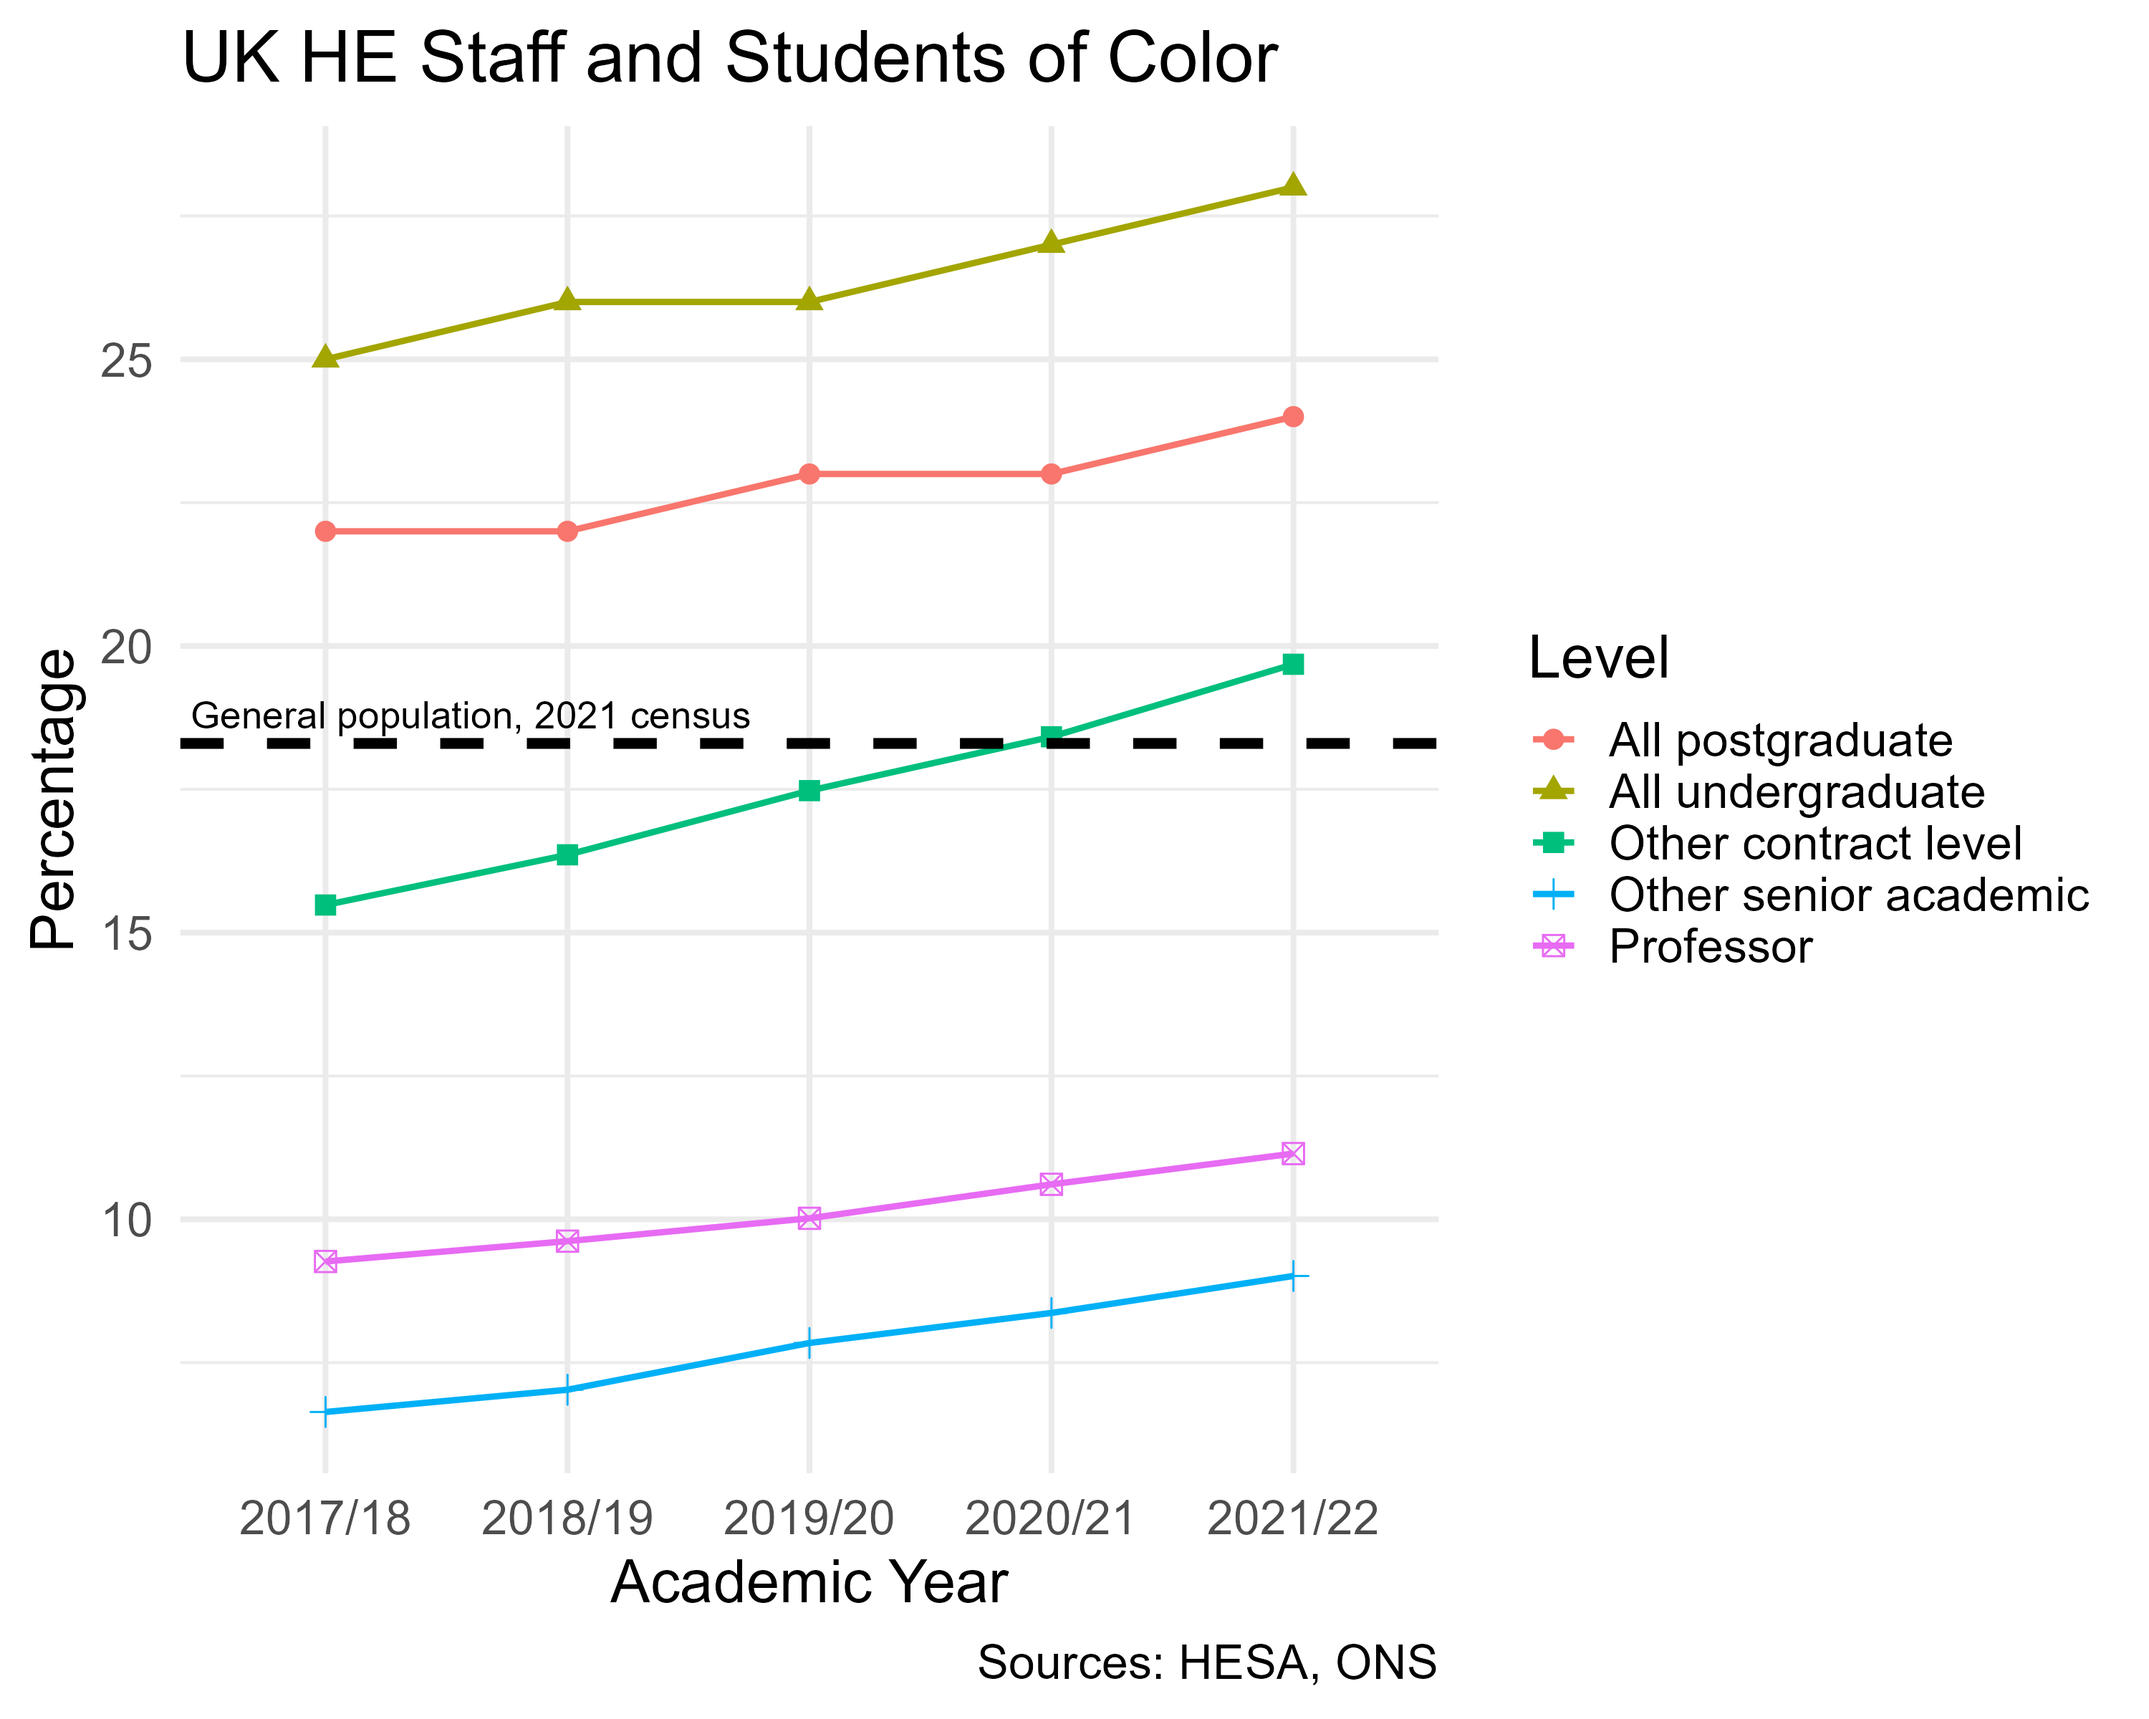
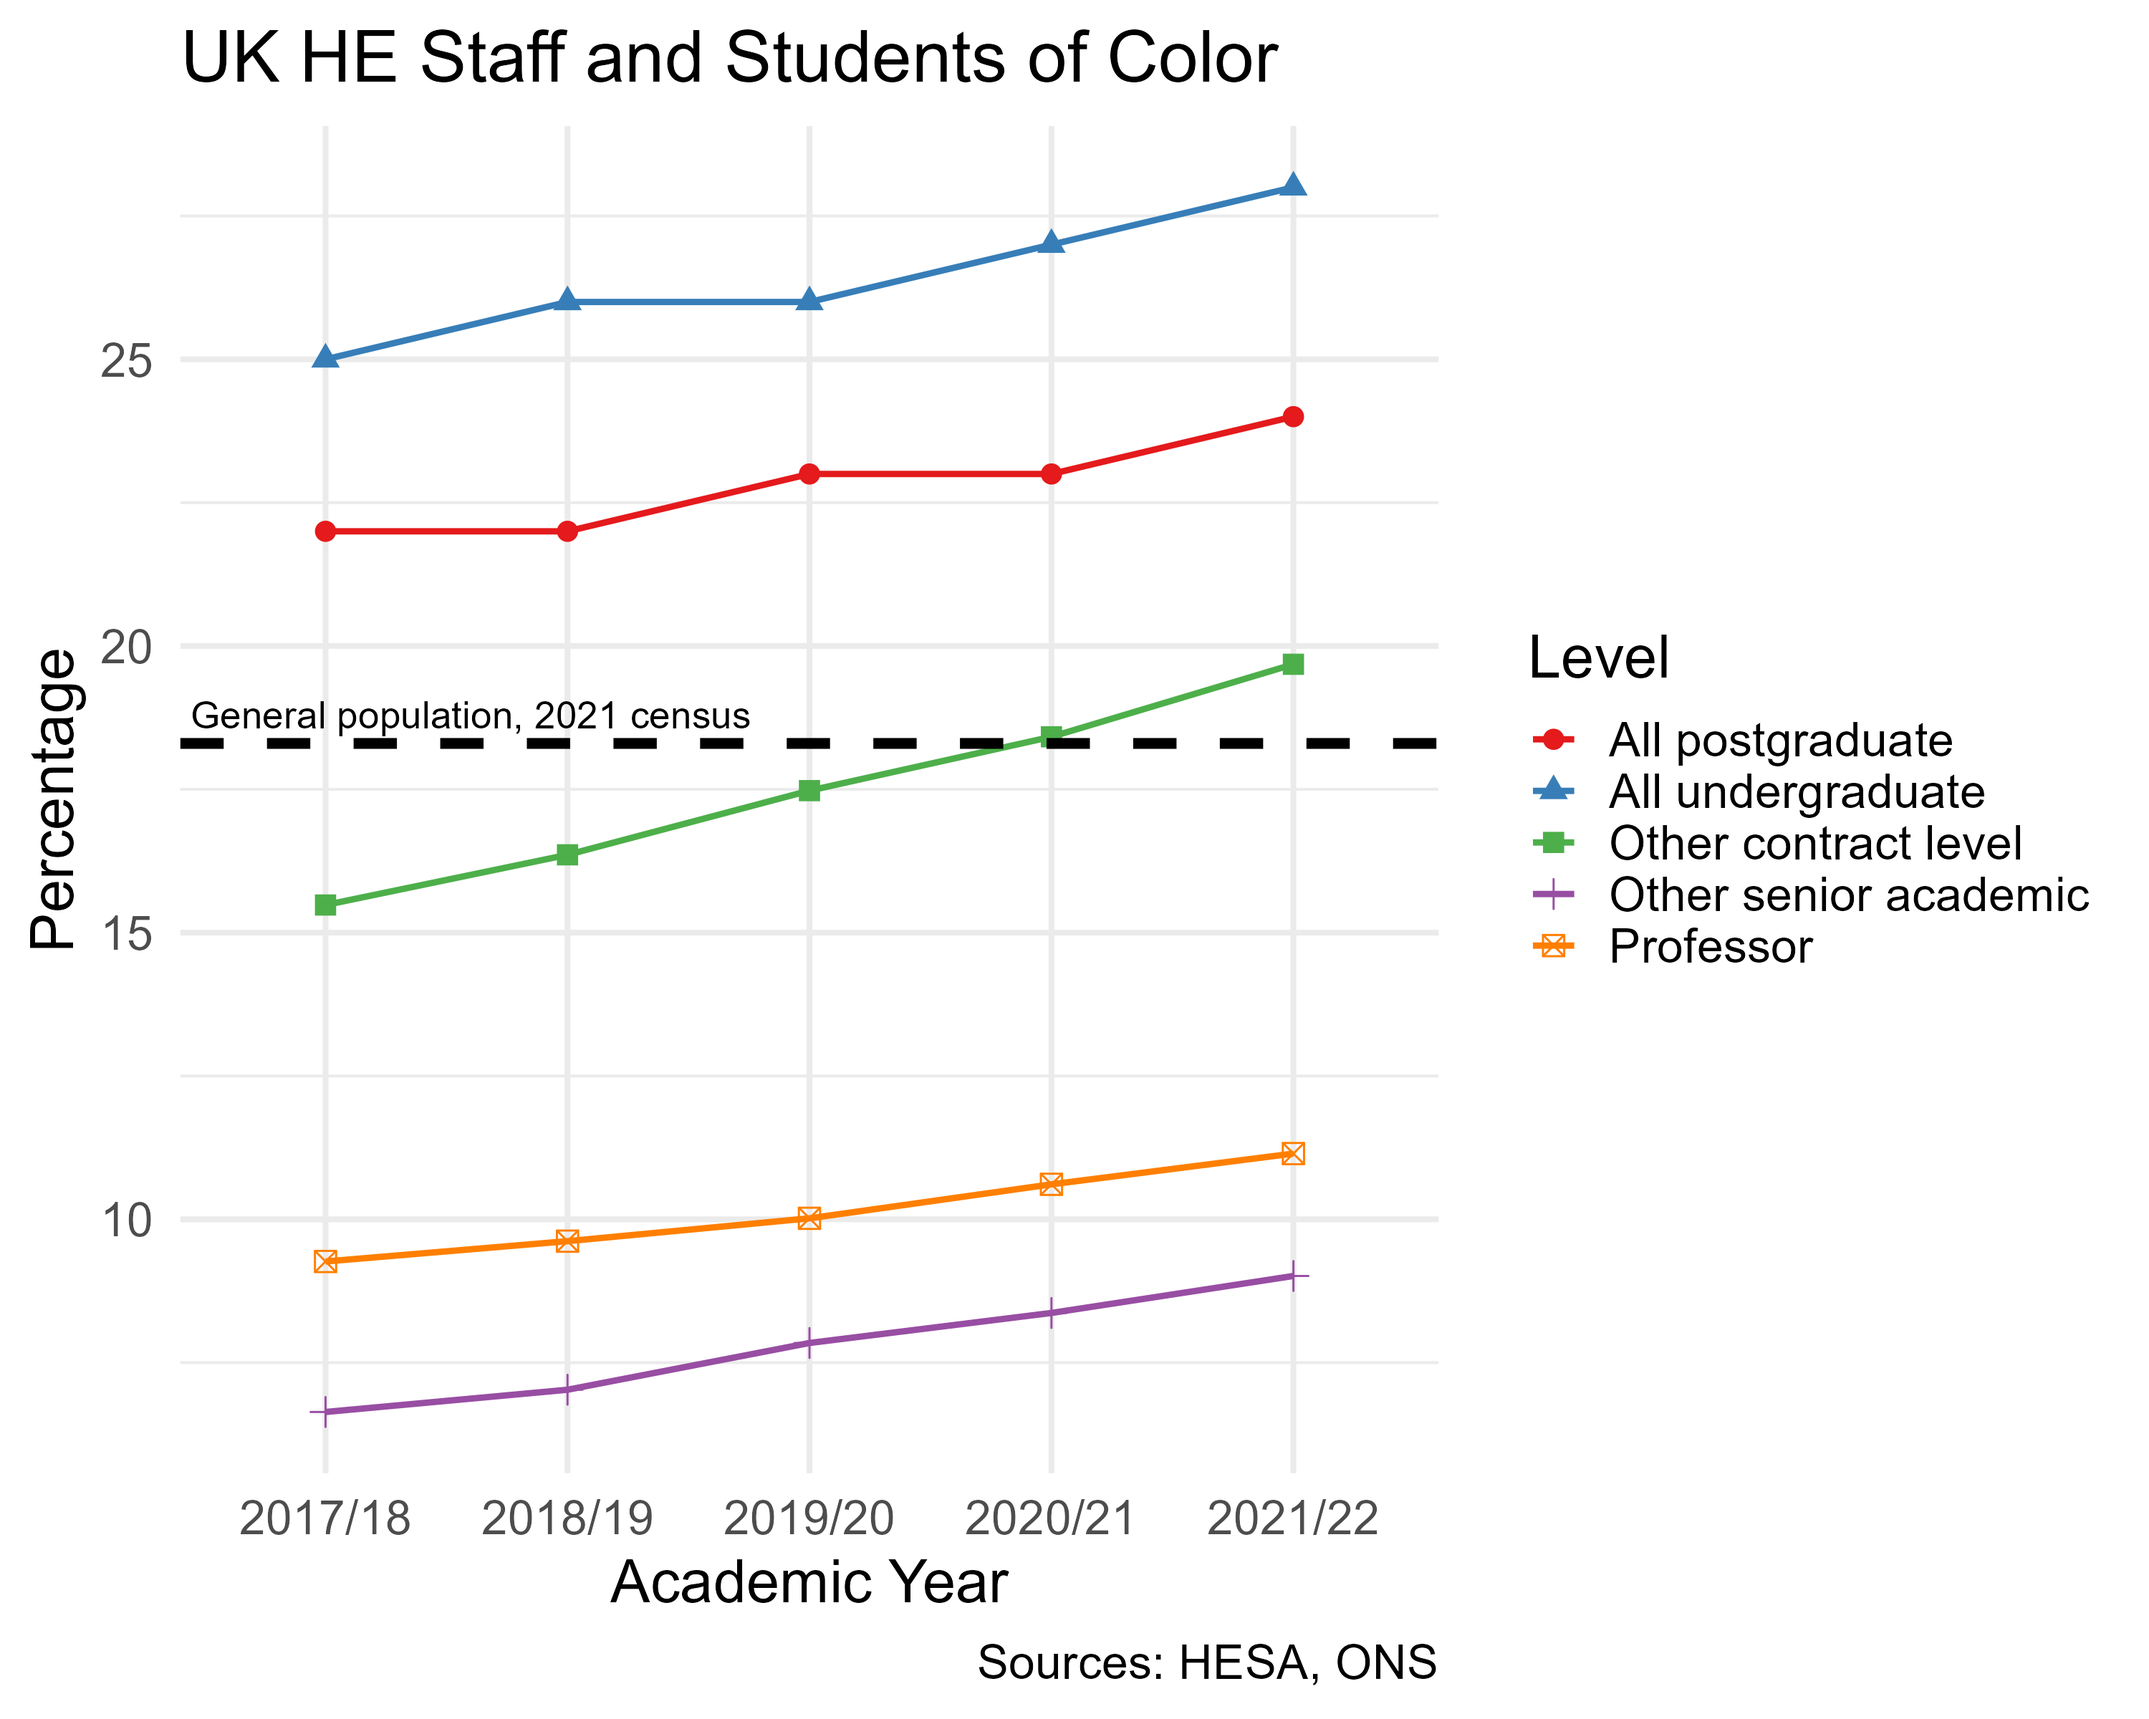
update graph colours, and other tweaks

diff --git a/2023-09-05-rsecon23-the-other-kind-of-accessible/2023-09-05-rsecon23-the-other-kind-of-accessible.html b/2023-09-05-rsecon23-the-other-kind-of-accessible/2023-09-05-rsecon23-the-other-kind-of-accessible.html
@@ -327,7 +327,7 @@
 
 <section id="title-slide" class="quarto-title-block center">
   <h1 class="title">The Other Kind of Accessible</h1>
-  <p class="subtitle">Removing software barriers for disabled researchers and RSEs</p>
+  <p class="subtitle"><strong>Removing software barriers for disabled researchers and RSEs</strong></p>
 
 <div class="quarto-title-authors">
 <div class="quarto-title-author">
@@ -392,11 +392,12 @@ Eli Chadwick <em>(he/him and they/them)</em>
 </section>
 <section id="accessible-in-fair-for-research-software" class="slide level2">
 <h2>“Accessible” in FAIR for research software</h2>
-<p><strong>Findable</strong>: Software, and its associated metadata, is easy for both humans and machines to find.</p>
-<p><strong>Accessible: Software, and its metadata, is retrievable via standardised protocols.</strong></p>
-<p><strong>Interoperable</strong>: Software interoperates with other software by exchanging data and/or metadata, and/or through interaction via application programming interfaces (APIs), described through standards.</p>
-<p><strong>Reusable</strong>: Software is both usable (can be executed) and reusable (can be understood, modified, built upon, or incorporated into other software).</p>
-<p><em>Nothing here discusses whether research software should be usable by all types of people!</em></p>
+<p><em>Findable</em>: Software, and its associated metadata, is easy for both humans and machines to find.</p>
+<p><em>Accessible</em>: Software, and its metadata, is <strong>retrievable via standardised protocols</strong>.</p>
+<p><em>Interoperable</em>: Software <strong>interoperates with other software</strong> by exchanging data and/or metadata, and/or through interaction via application programming interfaces (APIs), described through standards.</p>
+<p><em>Reusable</em>: Software is both <strong>usable (can be executed)</strong> and reusable (can be understood, modified, built upon, or incorporated into other software).</p>
+<div class="fragment">
+<p><strong>None of these explicitly say that software should be usable by all types of people!</strong></p>
 <aside class="notes">
 <p>https://www.nature.com/articles/s41597-022-01710-x</p>
 <style type="text/css">
@@ -410,6 +411,7 @@ Eli Chadwick <em>(he/him and they/them)</em>
           overflow: hidden!important;
           display:block!important;
       }</style></aside>
+</div>
 </section>
 <section id="accessible-in-a-disability-context" class="slide level2">
 <h2>“Accessible” in a disability context</h2>
@@ -558,7 +560,10 @@ Eli Chadwick <em>(he/him and they/them)</em>
 <li>It is everyone’s responsibility to remove barriers that disable people</li>
 <li>“She can’t read the newspaper because it’s not published in large text or Braille”</li>
 </ul>
+<div class="fragment">
 <p><strong>The social model is broadly preferred by the disabled community</strong></p>
+</div>
+<div class="fragment">
 <p>Ask yourself: what barriers exist within my software that I could remove?</p>
 <aside class="notes">
 <p>https://www.ombudsman.org.uk/sites/default/files/FDN-218144_Introduction_to_the_Social_and_Medical_Models_of_Disability.pdf</p>
@@ -573,18 +578,19 @@ Eli Chadwick <em>(he/him and they/them)</em>
           overflow: hidden!important;
           display:block!important;
       }</style></aside>
+</div>
 </section>
 <section id="its-the-law" class="slide level2">
 <h2>It’s the law</h2>
-<p>UK Equality Act 2010</p>
+<p>UK Equality Act 2010 (definitely)</p>
 <ul>
-<li>The first requirement is a requirement, where a provision, criterion or practice of A’s puts a disabled person at a substantial disadvantage in relation to a relevant matter in comparison with persons who are not disabled, to take such steps as it is reasonable to have to take to avoid the disadvantage.</li>
+<li>“…where a provision, criterion or practice of A’s puts a disabled person at a substantial disadvantage… take such steps as it is reasonable to have to take to avoid the disadvantage.”</li>
 </ul>
-<p>Public Sector Bodies (Websites and Mobile Applications) (No.&nbsp;2) Accessibility Regulations 2018.</p>
+<p>Public Sector Bodies (Websites and Mobile Applications) (No.&nbsp;2) Accessibility Regulations 2018 (depends)</p>
 <ul>
-<li>https://www.gov.uk/guidance/accessibility-requirements-for-public-sector-websites-and-apps</li>
+<li>You must make your website or mobile app more accessible by making it ‘perceivable, operable, understandable and robust’. <sup>1</sup></li>
 </ul>
-</section></section>
+<aside><ol class="aside-footnotes"><li id="fn1"><p><a href="https://www.gov.uk/guidance/accessibility-requirements-for-public-sector-websites-and-apps">Understanding accessibility requirements for public sector bodies</a></p></li></ol></aside></section></section>
 <section>
 <section id="what-can-i-do" class="title-slide slide level1 center">
 <h1>What Can I Do?</h1>
@@ -744,6 +750,8 @@ _Important for: Users with reduced colour vision_
 
 </div>
 </section>
+
+
     </div>
   </div>
 
